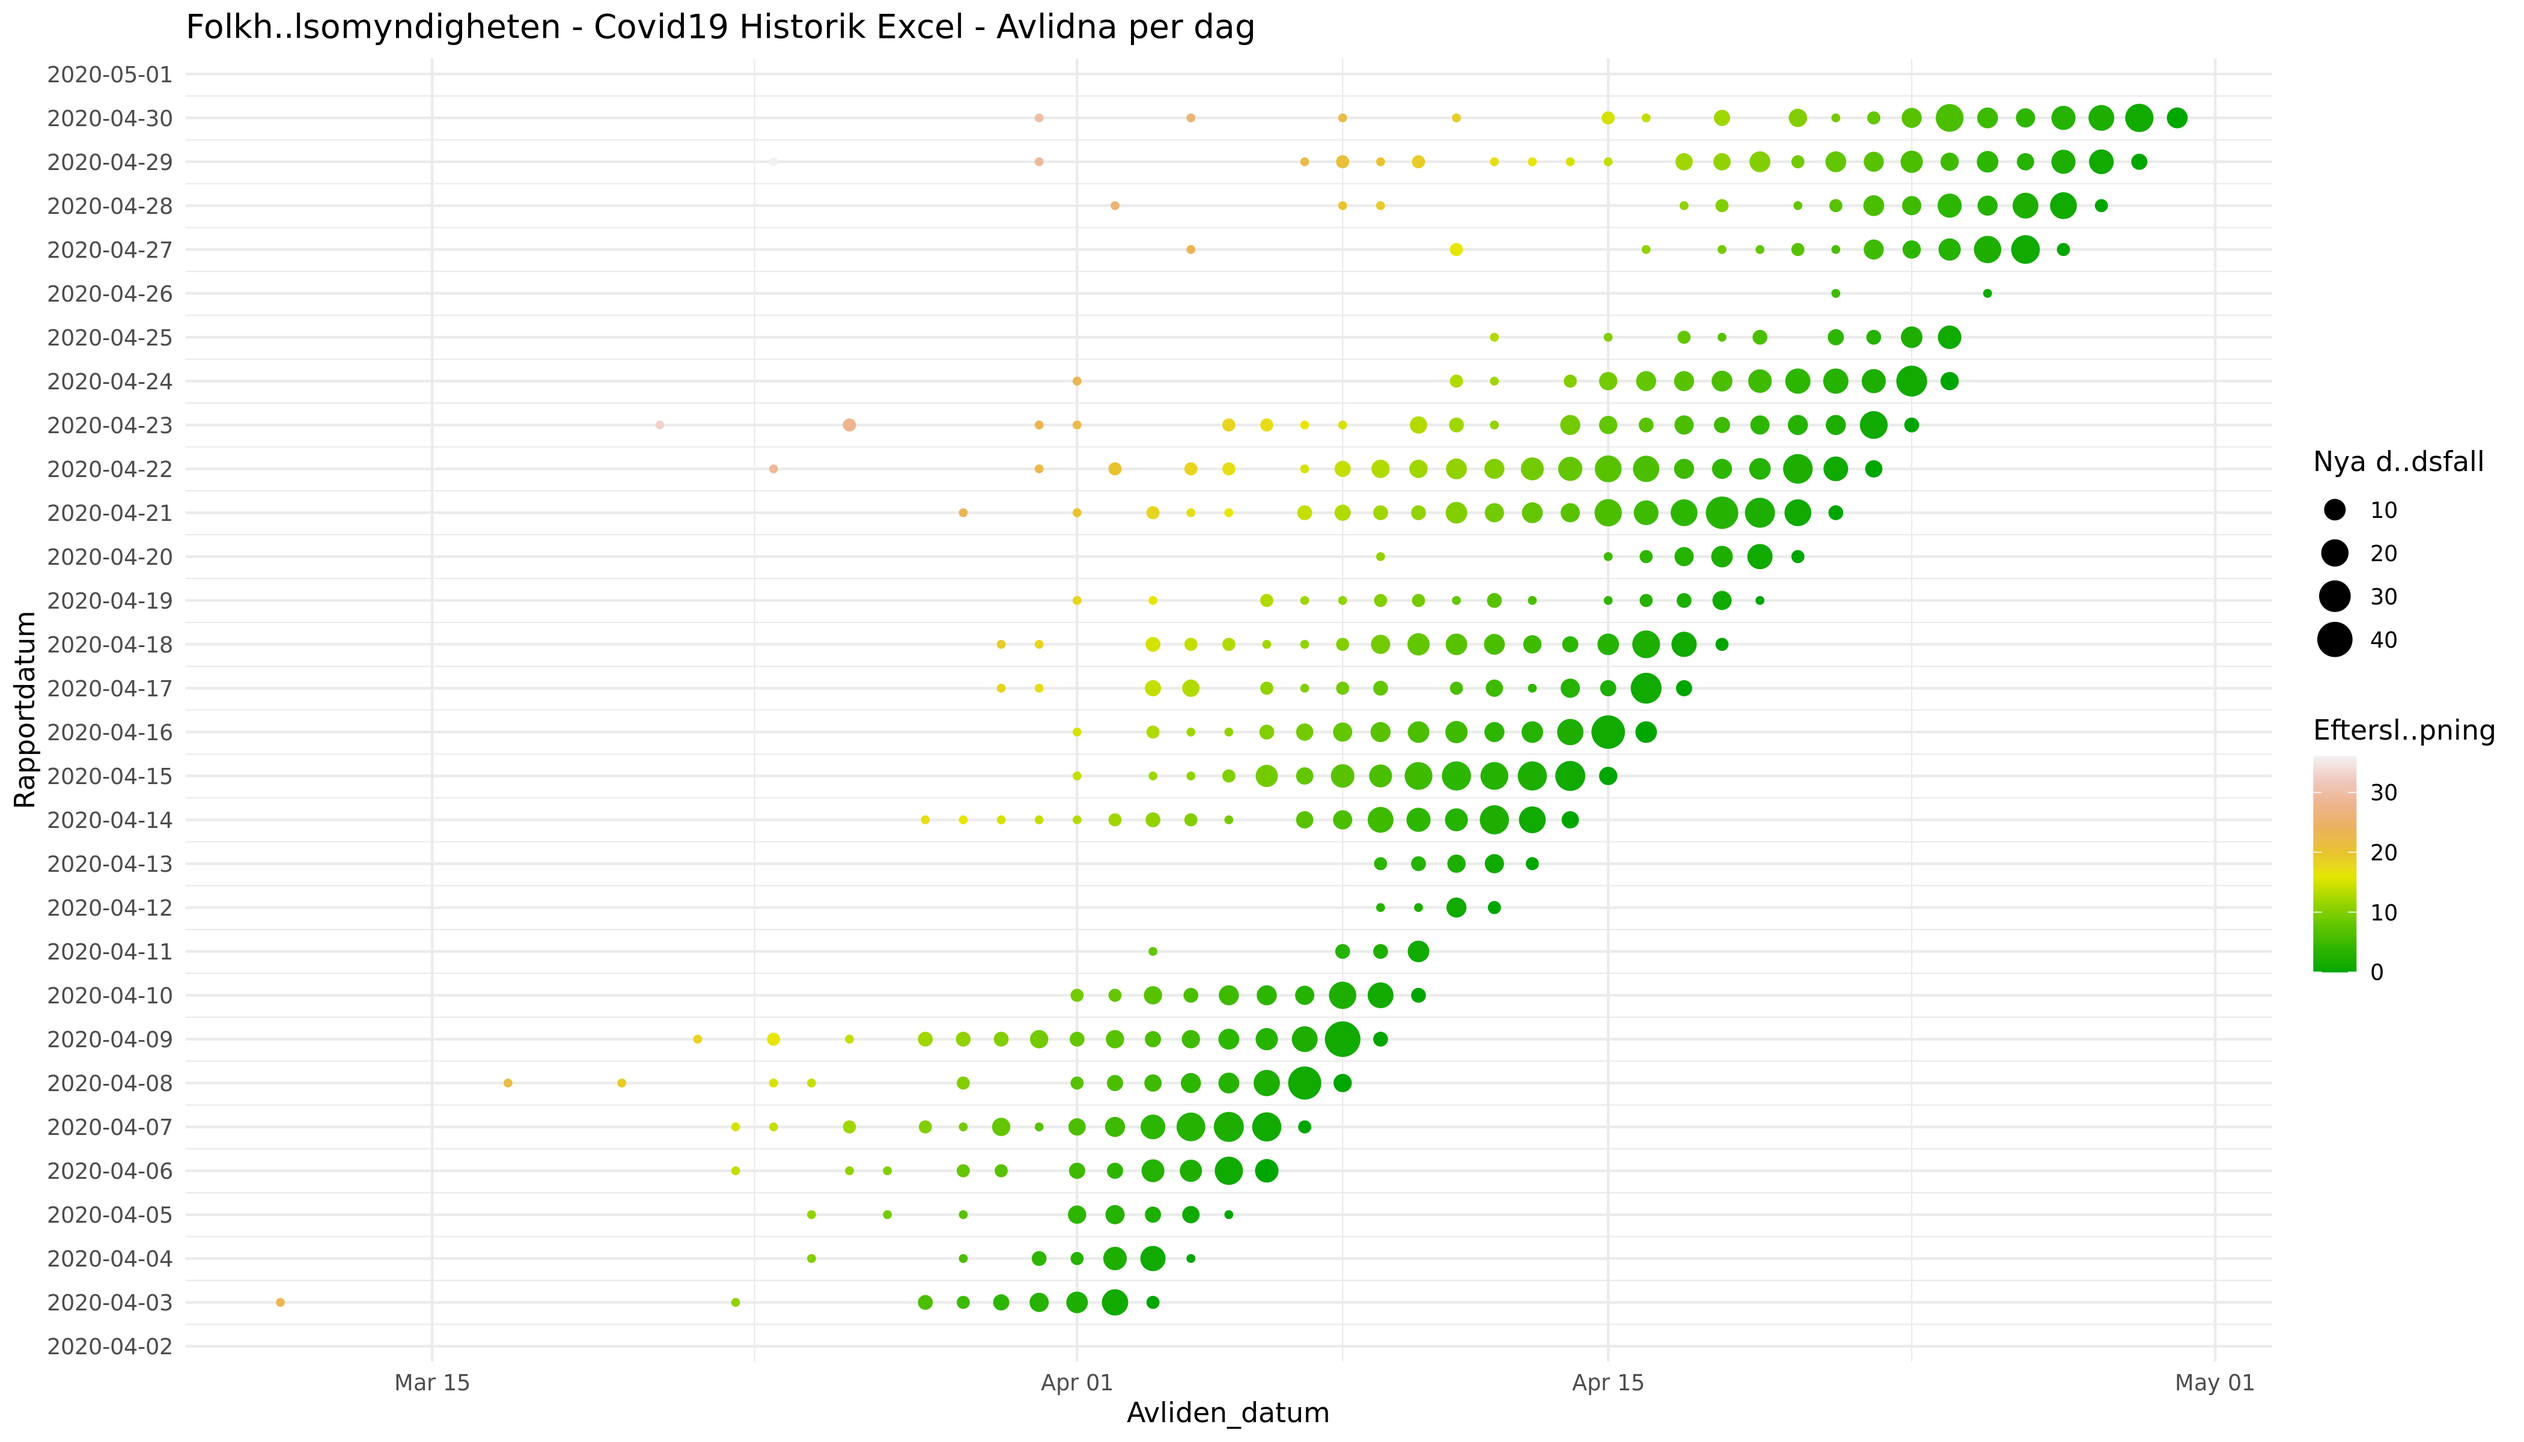
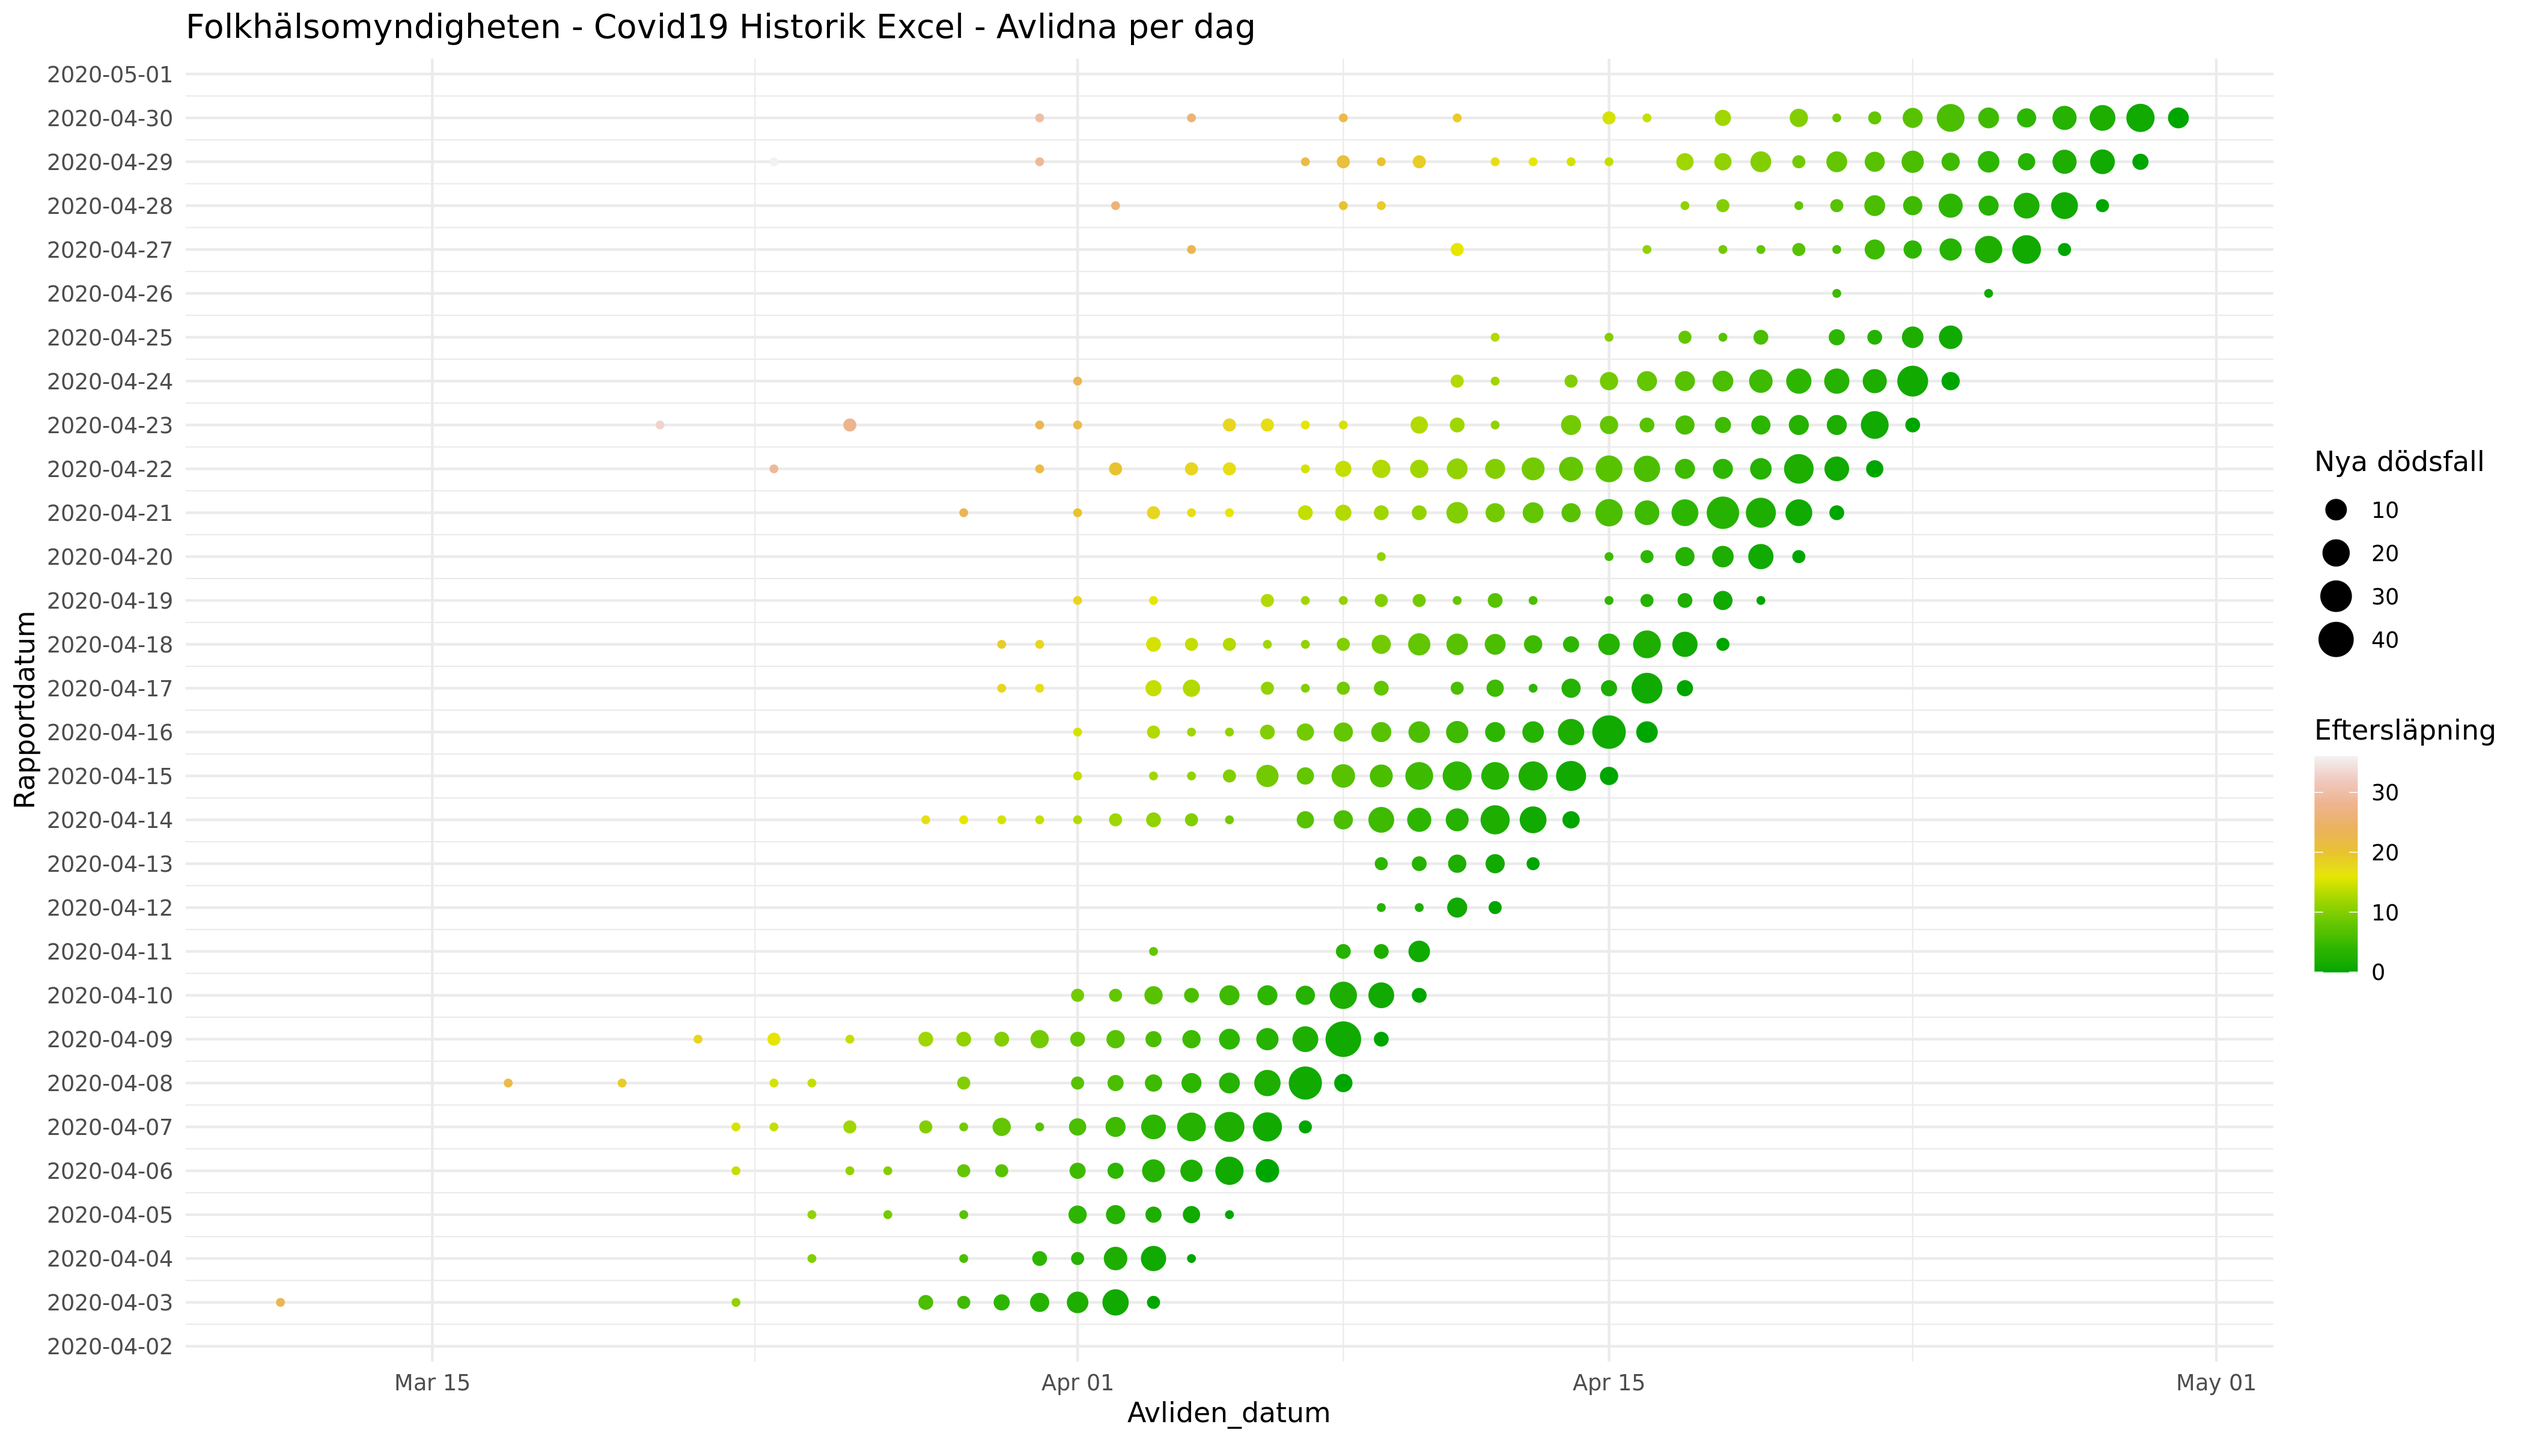
Add 2020-05-01

Changed region(s): [[0.9357, 0.5, 0.9669, 0.5312], [0.9045, 0.3125, 0.9357, 0.3438]]

diff --git a/README.md b/README.md
@@ -35,6 +35,6 @@ WHERE report_date = (SELECT MAX(report_date) FROM deaths);
 ```
 
 Below are three graphs generated by the `lageffect.R` script in this repo.
-![GraphA](https://github.com/truthly/c19/blob/master/graphs/2020-04-30a.png?raw=true "GraphA")
-![GraphB](https://github.com/truthly/c19/blob/master/graphs/2020-04-30b.png?raw=true "GraphB")
-![GraphC](https://github.com/truthly/c19/blob/master/graphs/2020-04-30c.png?raw=true "GraphC")
+![GraphA](https://github.com/truthly/c19/blob/master/graphs/2020-05-01a.png?raw=true "GraphA")
+![GraphB](https://github.com/truthly/c19/blob/master/graphs/2020-05-01b.png?raw=true "GraphB")
+![GraphC](https://github.com/truthly/c19/blob/master/graphs/2020-05-01c.png?raw=true "GraphC")
